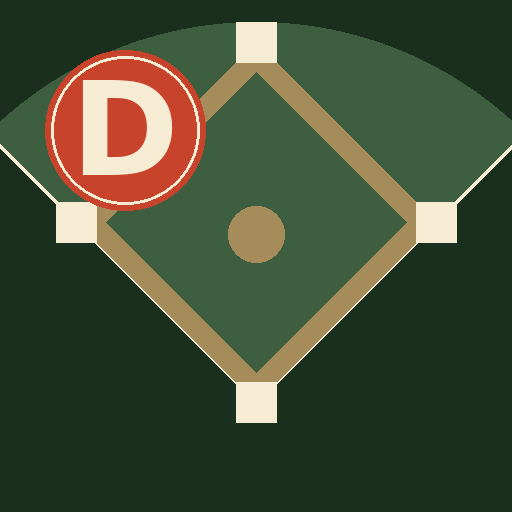
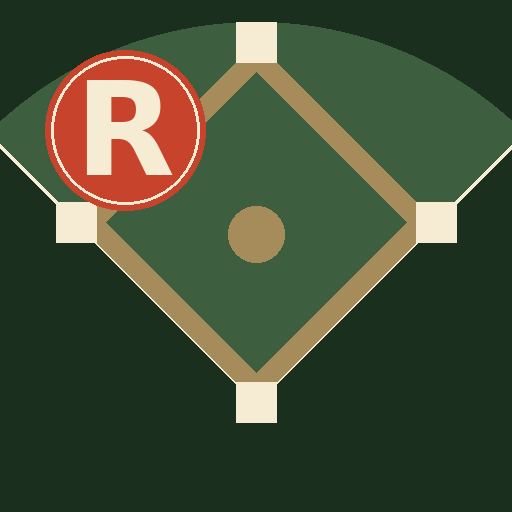
Add files via upload

Changed region(s): [[0.1562, 0.1562, 0.3438, 0.3438]]

diff --git a/index.html b/index.html
@@ -3,14 +3,16 @@
 <head>
 <meta charset="utf-8">
 <meta name="viewport" content="width=device-width,initial-scale=1">
-<title>Dugout — Season Tracker</title>
+<title>The Rebels Dugout</title>
 <link rel="manifest" href="manifest.json">
 <link rel="icon" type="image/png" href="icon.png">
 <link rel="apple-touch-icon" href="icon.png">
 <meta name="theme-color" content="#3d5f3f">
+<meta name="author" content="Braeden Prescott">
+<meta name="description" content="The Rebels Dugout — season tracker and lineup builder by Braeden Prescott.">
 <meta name="apple-mobile-web-app-capable" content="yes">
 <meta name="apple-mobile-web-app-status-bar-style" content="black-translucent">
-<meta name="apple-mobile-web-app-title" content="Dugout">
+<meta name="apple-mobile-web-app-title" content="Rebels Dugout">
 <meta name="mobile-web-app-capable" content="yes">
 <link rel="preconnect" href="https://fonts.googleapis.com">
 <link rel="preconnect" href="https://fonts.gstatic.com" crossorigin>
@@ -20,6 +22,7 @@
 *{box-sizing:border-box}
 html,body{margin:0;padding:0}
 body{background:radial-gradient(ellipse 80% 50% at 50% 0%,#1a2332 0%,transparent 70%),linear-gradient(180deg,var(--bg) 0%,#0a0d12 100%);min-height:100vh;color:var(--cream);font-family:'Fraunces',Georgia,serif;font-size:15px;line-height:1.5}
+.byline{font-family:'Big Shoulders Display',sans-serif;font-weight:700;font-size:10px;color:var(--dirt);letter-spacing:0.2em;text-transform:uppercase;margin-top:4px;opacity:0.85}
 body::before{content:"";position:fixed;inset:0;pointer-events:none;z-index:0;background-image:radial-gradient(rgba(255,255,255,0.015) 1px,transparent 1px);background-size:3px 3px}
 .wrap{max-width:1400px;margin:0 auto;padding:22px 20px 80px;position:relative;z-index:1}
 .top{display:flex;align-items:flex-end;justify-content:space-between;gap:20px;padding-bottom:14px;border-bottom:2px solid var(--red);margin-bottom:18px;flex-wrap:wrap}
@@ -196,11 +199,12 @@ footer{margin-top:30px;text-align:center;color:var(--muted);font-size:12px;font-
   <div class="brand">
     <span class="ball" aria-hidden="true"></span>
     <div>
-      <h1>Dug<span class="accent">ou</span>t</h1>
+      <h1>The Rebels <span class="accent">Dug</span>out</h1>
       <div class="meta">
-        <input class="teamname" id="teamName" value="My Team" maxlength="40" title="Click to edit team name">
+        <input class="teamname" id="teamName" value="The Rebels" maxlength="40" title="Click to edit team name">
         <input class="seasonname" id="seasonName" value="Winter 2026" maxlength="30" title="Click to edit season">
       </div>
+      <div class="byline">by Braeden Prescott</div>
     </div>
   </div>
   <div class="toolbar">
@@ -216,7 +220,7 @@ footer{margin-top:30px;text-align:center;color:var(--muted);font-size:12px;font-
 
 <div id="main"></div>
 
-<footer>Click any card for full stats · Click any slot to assign · Stats blend historical + season for first 5 rounds, then switch to season-only</footer>
+<footer>Click any card for full stats · Click any slot to assign · Stats blend historical + season for first 5 rounds, then switch to season-only<br><span style="opacity:0.5;font-size:11px;margin-top:6px;display:inline-block">The Rebels Dugout · built by Braeden Prescott · 2026</span></footer>
 </div>
 
 <div class="modal-bg" id="modal">
@@ -276,7 +280,7 @@ function cloneDeep(o){ return JSON.parse(JSON.stringify(o)); }
 // STATE
 // ============================================================================
 let state = {
-  teamName: 'My Team',
+  teamName: 'The Rebels',
   season: 'Winter 2026',
   roster: [...DEFAULT_ROSTER],
   battingOrder: Array(9).fill(null),
@@ -2188,6 +2192,7 @@ function openPrintableLineup(round){
 </table>
 ${subRows ? `<h2>Planned substitutions</h2><ul>${subRows}</ul>` : ''}
 ${round.notes ? `<h2>Notes</h2><div style="font-size:13px;white-space:pre-wrap">${round.notes.replace(/</g,'&lt;')}</div>` : ''}
+<div style="margin-top:30px;padding-top:10px;border-top:1px solid #ccc;font-size:10px;color:#888;text-align:center;letter-spacing:0.1em">The Rebels Dugout · by Braeden Prescott</div>
 </body></html>`;
   
   const w = window.open('', '_blank');
@@ -2527,7 +2532,7 @@ document.getElementById('fileImport').onchange = async (e) => {
     const obj = JSON.parse(await f.text());
     if (obj.roster && obj.battingOrder !== undefined){
       state = {
-        teamName: obj.teamName || 'My Team',
+        teamName: obj.teamName || 'The Rebels',
         season: obj.season || 'Season',
         roster: obj.roster || [...DEFAULT_ROSTER],
         battingOrder: obj.battingOrder || Array(9).fill(null),
@@ -2536,7 +2541,7 @@ document.getElementById('fileImport').onchange = async (e) => {
         activeTab: 'lineup'
       };
       render();
-    } else alert('That doesn\'t look like a Dugout file.');
+    } else alert('That doesn\'t look like a Rebels Dugout file.');
   } catch(err){ alert('Could not parse: ' + err.message); }
 };
 document.getElementById('btnSave').onclick = async () => {
@@ -2562,7 +2567,7 @@ document.getElementById('btnLoad').onclick = async () => {
 // Shared hydration helper — reconciles a loaded snapshot with current state shape
 function hydrateState(loaded){
   const s = {
-    teamName: loaded.teamName || 'My Team',
+    teamName: loaded.teamName || 'The Rebels',
     season: loaded.season || 'Season',
     roster: loaded.roster || [...DEFAULT_ROSTER],
     battingOrder: loaded.battingOrder || Array(9).fill(null),

diff --git a/sw.js b/sw.js
@@ -1,6 +1,6 @@
 // Dugout service worker — cache-first for the app shell, works offline
 // Update CACHE_VERSION whenever you change any of the cached files to force a refresh.
-const CACHE_VERSION = 'dugout-v1';
+const CACHE_VERSION = 'rebels-dugout-v2';
 const APP_SHELL = [
   './',
   './index.html',
